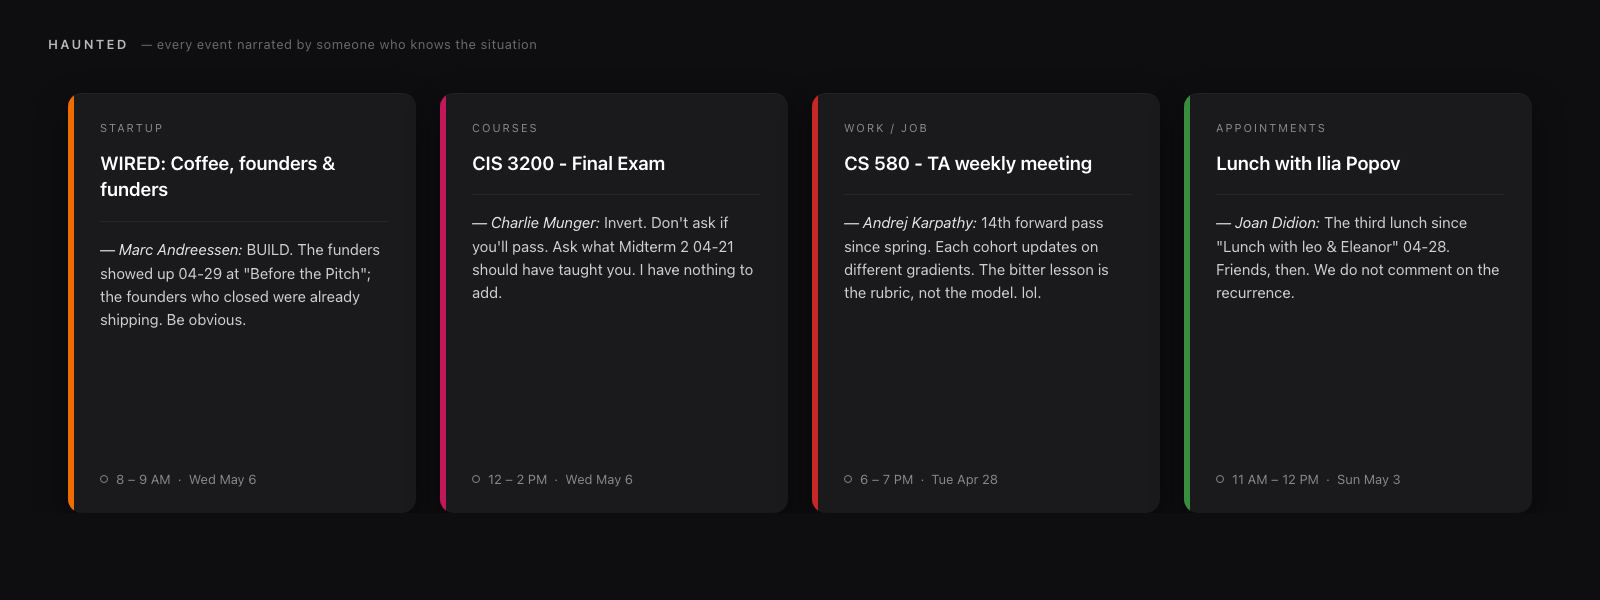
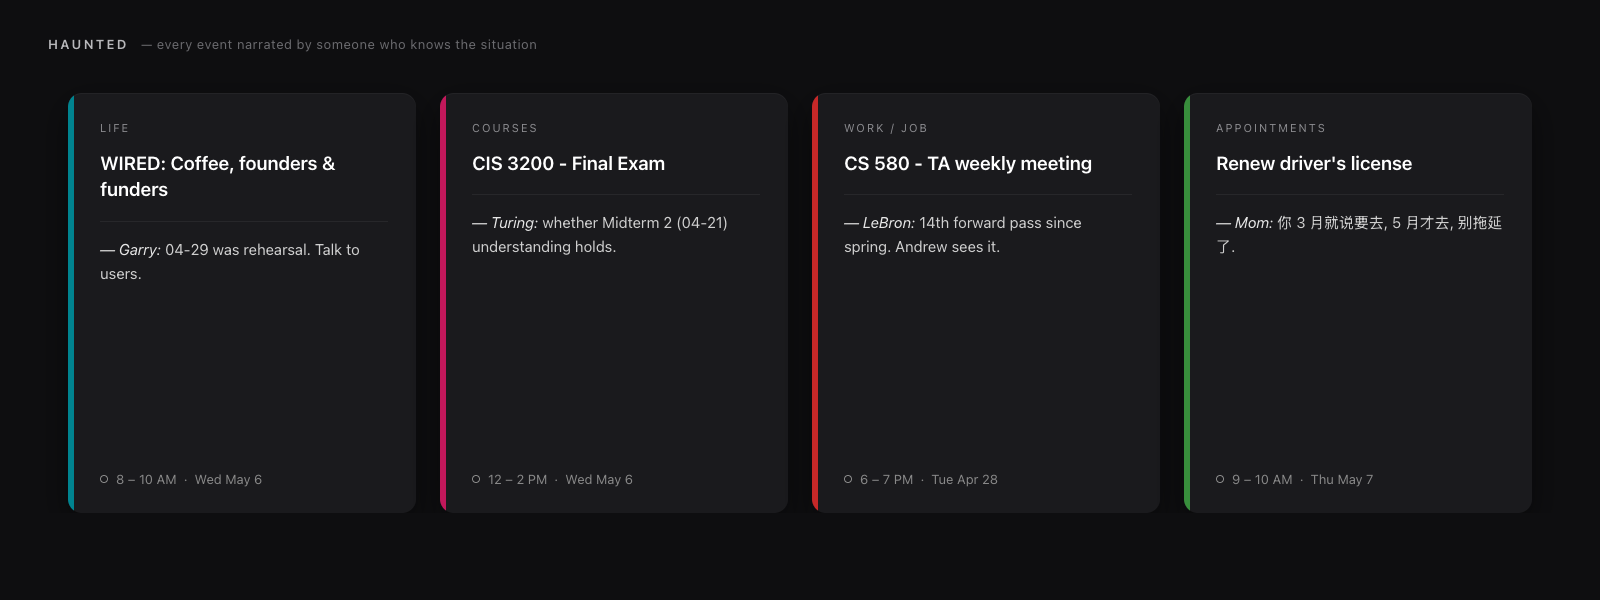
chore: refresh hero to current 7-voice calendar state + update repo URL

diff --git a/index.html b/index.html
@@ -56,11 +56,11 @@
 
       <div class="timeline-item">
         <span class="timeline-logo" aria-hidden="true">
-          <img src="assets/haunted-hero.png" alt="HAUNTED — events narrated by Marc Andreessen, Charlie Munger, Karpathy, Joan Didion" loading="lazy">
+          <img src="assets/haunted-hero.png" alt="HAUNTED — events narrated by Mom, Garry Tan, Alan Turing, LeBron James (and more)" loading="lazy">
         </span>
         <div class="timeline-content">
           <h3 class="timeline-title"><a href="blog/2026-05-haunted.html"><span class="timeline-new-label">New</span>HAUNTED &mdash; a calendar haunted by people who know you</a></h3>
-          <p class="timeline-desc">MCP server for macOS Calendar.app. Gives Claude full read/write access to your Apple Calendar &mdash; plus relational characters (Mom, Friend, your future self) who comment on every event with one-liners that reference your past calendar history. <a href="https://github.com/yongzhe-wang/haunted-mcp" target="_blank" rel="noopener">GitHub</a> &middot; <a href="https://www.npmjs.com/package/haunted-mcp" target="_blank" rel="noopener">npm</a></p>
+          <p class="timeline-desc">MCP server for macOS Calendar.app. Gives Claude full read/write access to your Apple Calendar &mdash; plus relational characters (Mom, Friend, your future self) who comment on every event with one-liners that reference your past calendar history. <a href="https://github.com/yongzhe-wang/haunted-apple-calendar-mcp" target="_blank" rel="noopener">GitHub</a> &middot; <a href="https://www.npmjs.com/package/haunted-mcp" target="_blank" rel="noopener">npm</a></p>
         </div>
         <span class="timeline-date">May 2026</span>
       </div>

diff --git a/blog/2026-05-haunted.html b/blog/2026-05-haunted.html
@@ -32,14 +32,14 @@
       <h1 class="page-title">HAUNTED &mdash; a calendar haunted by people who know you</h1>
       <p class="post-subtitle">May 2026</p>
       <ul class="link-bar">
-        <li><a href="https://github.com/yongzhe-wang/haunted-mcp" target="_blank" rel="noopener">GitHub repo</a></li>
+        <li><a href="https://github.com/yongzhe-wang/haunted-apple-calendar-mcp" target="_blank" rel="noopener">GitHub repo</a></li>
         <li><a href="https://www.npmjs.com/package/haunted-mcp" target="_blank" rel="noopener">npm</a></li>
       </ul>
 
       <div class="post-body">
 
         <p>
-          <img src="../assets/haunted-hero.png" alt="HAUNTED — events narrated by Marc Andreessen, Charlie Munger, Karpathy, Joan Didion" style="width:100%;height:auto;border-radius:8px;margin:1rem 0;">
+          <img src="../assets/haunted-hero.png" alt="HAUNTED — events narrated by Mom, Garry Tan, Alan Turing, LeBron James (and more)" style="width:100%;height:auto;border-radius:8px;margin:1rem 0;">
         </p>
 
         <p>
@@ -87,7 +87,7 @@
         </p>
 
         <ul class="link-bar">
-          <li><a href="https://github.com/yongzhe-wang/haunted-mcp" target="_blank" rel="noopener">GitHub</a></li>
+          <li><a href="https://github.com/yongzhe-wang/haunted-apple-calendar-mcp" target="_blank" rel="noopener">GitHub</a></li>
           <li><a href="https://www.npmjs.com/package/haunted-mcp" target="_blank" rel="noopener">npm</a></li>
         </ul>
 
